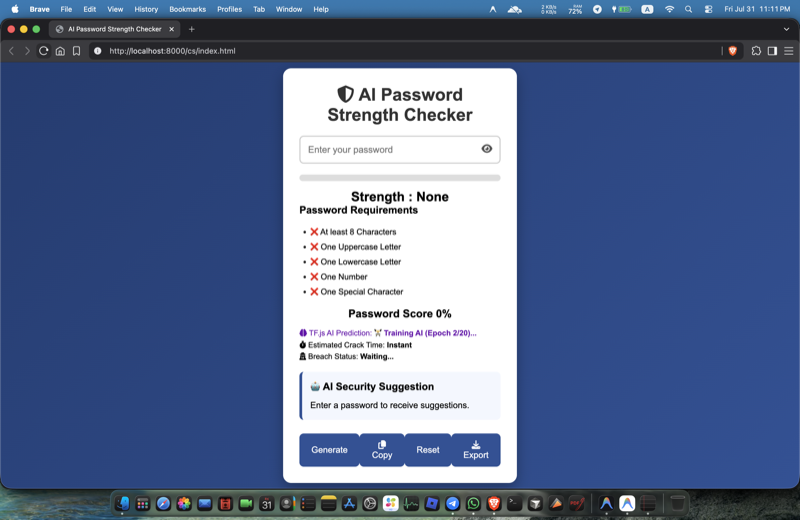
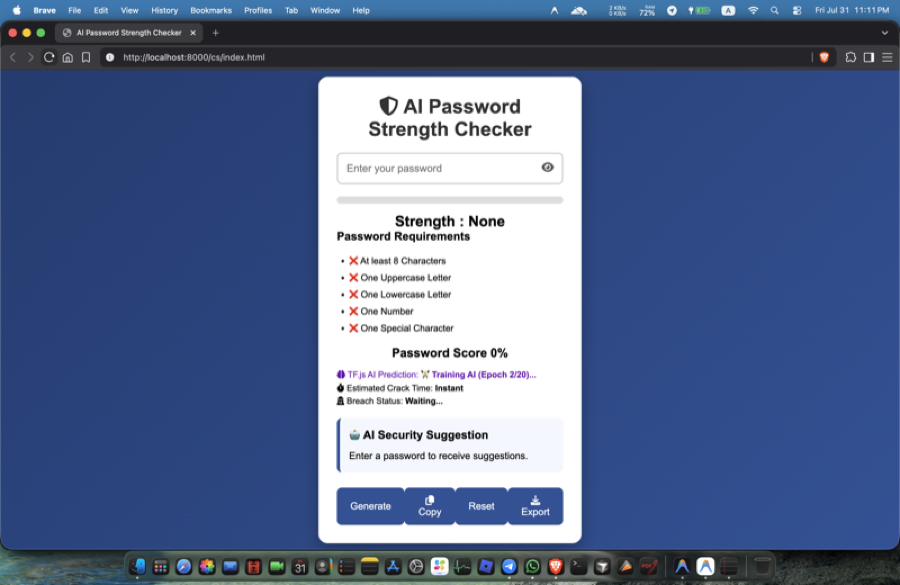
Compress screenshots and update README with all photos and full documentation

diff --git a/README.md b/README.md
@@ -1,8 +1,8 @@
 <div align="center">
   <h1>🛡 AI Password Strength Checker</h1>
-  <p><b>A fully client-side, privacy-first web application that combines Regex validation, Entropy Analysis, Real-World Breach Detection, and an in-browser Neural Network to evaluate password security.</b></p>
+  <p><b>A fully client-side, privacy-first web application that combines Regex Validation, Entropy Analysis, Real-World Breach Detection, and an in-browser Neural Network to evaluate password security.</b></p>
   <br/>
-  <img src="Screenshot 2026-07-31 at 11.11.13 PM.png" alt="App Overview" width="550"/>
+  <img src="Screenshot%202026-07-31%20at%2011.11.13%E2%80%AFPM.png" alt="App Overview" width="550"/>
 </div>
 
 ---
@@ -11,91 +11,95 @@
 
 | Weak Password | Fair Password |
 |:---:|:---:|
-| <img src="Screenshot 2026-07-31 at 11.11.14 PM.png" width="380"/> | <img src="Screenshot 2026-07-31 at 11.11.21 PM.png" width="380"/> |
+| <img src="Screenshot%202026-07-31%20at%2011.11.14%E2%80%AFPM.png" width="380"/> | <img src="Screenshot%202026-07-31%20at%2011.11.21%E2%80%AFPM.png" width="380"/> |
 
 | Strong Password | Very Strong Password |
 |:---:|:---:|
-| <img src="Screenshot 2026-07-31 at 11.11.42 PM.png" width="380"/> | <img src="Screenshot 2026-07-31 at 11.11.47 PM.png" width="380"/> |
+| <img src="Screenshot%202026-07-31%20at%2011.11.42%E2%80%AFPM.png" width="380"/> | <img src="Screenshot%202026-07-31%20at%2011.11.47%E2%80%AFPM.png" width="380"/> |
 
 | Breach Detection | Export Audit |
 |:---:|:---:|
-| <img src="Screenshot 2026-07-31 at 11.11.59 PM.png" width="380"/> | <img src="Screenshot 2026-07-31 at 11.12.25 PM.png" width="380"/> |
+| <img src="Screenshot%202026-07-31%20at%2011.11.59%E2%80%AFPM.png" width="380"/> | <img src="Screenshot%202026-07-31%20at%2011.12.25%E2%80%AFPM.png" width="380"/> |
 
-| AI Training (First Launch) | AI Ready (Cached) |
+| AI Training (First Launch) | AI Ready (Loaded from Cache) |
 |:---:|:---:|
-| <img src="Screenshot 2026-07-31 at 11.12.38 PM.png" width="380"/> | <img src="Screenshot 2026-07-31 at 11.12.41 PM.png" width="380"/> |
+| <img src="Screenshot%202026-07-31%20at%2011.12.38%E2%80%AFPM.png" width="380"/> | <img src="Screenshot%202026-07-31%20at%2011.12.41%E2%80%AFPM.png" width="380"/> |
 
 <div align="center">
-  <img src="Screenshot 2026-07-31 at 11.12.53 PM.png" alt="Full UI" width="550"/>
+  <img src="Screenshot%202026-07-31%20at%2011.12.53%E2%80%AFPM.png" alt="Full UI" width="550"/>
 </div>
 
 ---
 
 ## 🎯 Project Purpose
 
-This project was built as a **Computer Science Lab Final Project** to demonstrate the application of real-world cybersecurity concepts in a browser-based tool. The goal was to go beyond simple "uppercase/number" checking and implement a multi-layered, professionally-graded security analysis system.
+This project was built as a **Computer Science Lab Final Project** to demonstrate the application of real-world cybersecurity concepts in a browser-based tool. The goal was to go beyond simple "uppercase/number" checking and implement a multi-layered, professionally-graded security analysis system — without ever sending the user's password to any server.
 
 ---
 
 ## ✨ Features
 
-| Feature | Technology Used | What It Does |
+| Feature | Technology | What It Does |
 |---|---|---|
-| **Real-Time Checklist** | JavaScript Regex | Validates 5 rules (length, uppercase, lowercase, number, symbol) as you type |
-| **Dynamic Progress Bar** | CSS Transitions | Color changes from Red → Orange → Gold → Blue → Green |
+| **Real-Time Checklist** | JavaScript Regex | Validates 5 rules (length, uppercase, lowercase, number, symbol) instantly as you type |
+| **Dynamic Progress Bar** | CSS Transitions | Color changes Red → Orange → Gold → Blue → Green based on score |
 | **Entropy Analysis & Crack Time** | zxcvbn (Dropbox) | Calculates how long it would take a computer to brute-force the password |
 | **Breach Detection** | HaveIBeenPwned API + SHA-1 | Checks if the password appeared in known data breaches using k-Anonymity |
-| **In-Browser AI Prediction** | TensorFlow.js | A Neural Network trained on 1,000 labeled passwords predicts hack probability |
+| **In-Browser AI Prediction** | TensorFlow.js | A Neural Network trained on 1,000 labeled passwords predicts hack probability locally |
 | **Secure Password Generator** | Web Crypto API (CSPRNG) | Generates cryptographically unpredictable 14-character passwords |
 | **Copy to Clipboard** | Clipboard API | One-click copy of the generated password |
-| **Export Security Audit** | Blob API | Downloads a `.txt` file containing the full security report |
+| **Export Security Audit** | Blob API | Downloads a `.txt` report of the full security analysis |
 
 ---
 
 ## 🧠 Architecture: How It Works (A to Z)
 
 ### Layer 1 — Regex Validation (Foundation)
-When the user types, the JavaScript instantly checks the password against 5 Regular Expressions to drive the visual checklist. This is the fastest and most reliable method for checking required character types.
+When the user types, JavaScript instantly checks the password against 5 Regular Expressions to drive the visual checklist. This is the fastest and most reliable method for validating required character types.
 
 ### Layer 2 — Entropy Analysis via `zxcvbn`
-The project integrates `zxcvbn`, an open-source algorithm by Dropbox used in production systems. Unlike basic Regex, it understands **human psychology**:
-- It detects keyboard spatial patterns (e.g., `qwerty`, `asdfgh`)
-- It detects dictionary words, common names, and dates
-- It calculates **Information Entropy** (bits of randomness) and converts it to a real-world crack time (e.g., *"less than a second"* vs *"centuries"*)
+The project integrates `zxcvbn`, an open-source algorithm by Dropbox used in production systems. Unlike Regex, it understands **human psychology and behavior**:
+- Detects keyboard spatial patterns (e.g., `qwerty`, `asdfgh`)
+- Detects dictionary words, common names, dates, and l33tspeak
+- Calculates **Information Entropy** (bits of randomness) and converts it to a real-world crack time (e.g., *"less than a second"* vs *"centuries"*)
 
-### Layer 3 — Breach Detection (k-Anonymity Cryptography)
-This is the most security-critical feature and demonstrates a real-world cryptographic protocol:
-1. The password is hashed locally using **SHA-1** (via `window.crypto.subtle`) — the password itself never leaves the device.
+### Layer 3 — Breach Detection using k-Anonymity (Cryptography)
+This demonstrates a real-world cryptographic privacy protocol:
+1. The password is hashed locally using **SHA-1** via `window.crypto.subtle` — the password never leaves the device.
 2. Only the **first 5 characters** of the 40-character hash are sent to the HaveIBeenPwned API. This is called **k-Anonymity**.
-3. The API returns hundreds of hash suffixes that share those 5 characters. JavaScript then checks locally if the full hash matches, and reports how many times it was found in breaches.
+3. The API returns all matching hash suffixes. JavaScript then locally checks for a match and reports how many times the password was found in real data breaches.
 
-This means: **the full password is never transmitted anywhere.**
+**The full password is never transmitted over the internet.**
 
 ### Layer 4 — On-Device Neural Network (TensorFlow.js)
-This is the true AI component. The entire machine learning pipeline runs inside the user's browser:
+The true AI component. The entire Machine Learning pipeline runs inside the user's browser:
 
-1. **The Dataset:** `password_dataset.csv` contains 1,000 labeled samples — 500 bad passwords (common, predictable patterns) and 500 cryptographically generated secure passwords.
+1. **Dataset:** `password_dataset.csv` contains 1,000 labeled samples — 500 bad (common/predictable) and 500 cryptographically secure passwords.
 
-2. **The Neural Network Architecture:**
-   ```
-   Input → Embedding Layer (256 vocab, 16 dimensions)
-          → Flatten Layer
-          → Dense Layer (16 neurons, ReLU activation)
-          → Output Layer (1 neuron, Sigmoid activation)
-   ```
-   The **Sigmoid** output produces a score between 0.0 and 1.0, which we convert to a probability percentage.
+2. **Neural Network Architecture:**
+```
+Input (20 characters)
+  → Embedding Layer  (vocab size: 256, output dim: 16)
+  → Flatten Layer
+  → Dense Layer      (16 neurons, ReLU activation)
+  → Output Layer     (1 neuron, Sigmoid activation → probability 0.0 to 1.0)
+```
 
-3. **Model Persistence:** After training once (20 Epochs), the model is saved to the browser's `localStorage`. On every subsequent page load, the model is loaded from cache in under 1 second — **no retraining ever happens again**.
+3. **Model Caching (localStorage):** After training once (20 epochs, ~1-2 seconds on M2), the model is saved to the browser's `localStorage`. On every subsequent page load, it loads from cache in under 1 second — **no retraining ever happens again**.
 
-4. **Inference:** When a password is typed, it is tokenized (each character converted to its ASCII integer value) and padded to 20 characters. This is fed into the model which instantly returns its prediction.
+4. **Inference:** The typed password is tokenized (each character → ASCII integer, padded to 20 characters) and passed through the model, which returns the probability of being hacked.
+
+### Layer 5 — Cryptographically Secure Password Generator
+The "Generate Password" feature uses `window.crypto.getRandomValues()` — a **CSPRNG (Cryptographically Secure Pseudorandom Number Generator)** — instead of the insecure `Math.random()`. This produces passwords that are mathematically unpredictable.
 
 ---
 
 ## 🚀 How to Run Locally
 
 ### Requirements
-- Python 3 (for the local server)
+- Python 3 (for the local development server)
 - A modern browser (Chrome, Brave, Firefox, Safari)
+- Internet connection (for zxcvbn CDN, TensorFlow.js CDN, and HaveIBeenPwned API)
 
 ### Steps
 
@@ -108,16 +112,16 @@ cd ai-password-strength-checker
 
 # 3. Create and activate a Python virtual environment
 python3 -m venv venv
-source venv/bin/activate   # On Windows: venv\Scripts\activate
+source venv/bin/activate        # On Windows: venv\Scripts\activate
 
-# 4. Start the local web server from the project root
+# 4. Start the local web server from the project ROOT (not inside /cs)
 python3 -m http.server 8000
 
-# 5. Open your browser and visit:
-# http://localhost:8000/cs/index.html
+# 5. Open your browser and go to:
+http://localhost:8000/cs/index.html
 ```
 
-> ⚠ **Important:** You must use a local server (`http://localhost`) and not just open the file directly. This is required for the AI to fetch the `password_dataset.csv` file and for the HaveIBeenPwned API to work (CORS policy).
+> ⚠ **Important:** You MUST run the server from the project **root folder**, not from inside the `cs/` folder. This is required so TensorFlow.js can access the `password_dataset.csv` file one level up, and so that the HaveIBeenPwned API works (CORS policy).
 
 ---
 
@@ -127,43 +131,48 @@ python3 -m http.server 8000
 ai-password-strength-checker/
 │
 ├── cs/
-│   ├── index.html          # Main application UI
-│   ├── style.css           # All styling and animations
-│   └── script.js           # All logic (Regex, zxcvbn, HIBP, TensorFlow.js)
+│   ├── index.html              # Main application UI structure
+│   ├── style.css               # All styling, colors, animations
+│   └── script.js               # All logic: Regex, zxcvbn, HIBP API, TensorFlow.js
 │
-├── password_dataset.csv    # 1,000 labeled passwords for AI training
-├── train_model.py          # (Reference) Python version of the training script
-├── README.md               # This file
-└── .gitignore              # Ignores venv/ and .DS_Store
+├── password_dataset.csv        # 1,000 labeled passwords for AI training (500 bad, 500 good)
+├── train_model.py              # Reference Python training script (not required to run)
+├── README.md                   # This file
+└── .gitignore                  # Ignores venv/ and system files
 ```
 
 ---
 
 ## ⚠ Limitations
 
-This project is a **Proof of Concept (PoC)** for educational purposes. It has the following known limitations:
+This project is a **Proof of Concept (PoC)** for educational purposes. The following limitations are acknowledged:
 
 | Limitation | Explanation |
 |---|---|
-| **Small AI Dataset** | The Neural Network is trained on only 1,000 passwords. A production-grade model would require millions of samples to generalize properly. |
-| **Risk of Overfitting** | With only 1,000 samples, the AI may "memorize" specific passwords rather than truly learning patterns. |
-| **SHA-1 is Deprecated** | SHA-1 is used for HIBP breach detection because HIBP's API uses it. In other security contexts, SHA-1 is considered cryptographically broken and should not be used. |
-| **No Backend** | This is a fully frontend application. There is no server, no database, and no user authentication. |
-| **HIBP Requires Internet** | The breach detection feature requires an active internet connection. Offline, it will fail gracefully. |
-| **AI Prediction is Probabilistic** | The TF.js AI score is a probability estimate, not a guarantee. It reflects what the model learned from the dataset it was trained on. |
-| **localStorage is Browser-Specific** | The cached AI model is stored per browser. If you switch browsers, it will retrain once. |
+| **Small AI Dataset** | The Neural Network is trained on only 1,000 passwords. A production model would need millions of samples to generalize well and avoid bias. |
+| **Risk of Overfitting** | With only 1,000 samples, the AI may "memorize" the training data rather than truly learning general patterns. |
+| **SHA-1 is Cryptographically Deprecated** | SHA-1 is used here because the HaveIBeenPwned API requires it. In any other security context, SHA-1 is broken and should be replaced with SHA-256 or SHA-3. |
+| **No Backend or Database** | This is a fully frontend application. There is no server, database, or user authentication. |
+| **HIBP Requires Internet** | The breach detection feature requires an active internet connection to query the API. |
+| **AI Prediction is Probabilistic** | The TF.js score is a probability estimate based only on what was learned from the 1,000-sample training dataset. It is not a definitive security verdict. |
+| **localStorage is Browser-Specific** | The cached AI model is stored per browser/device. Opening in a new browser will trigger one-time retraining. |
+| **CDN Dependency** | zxcvbn and TensorFlow.js are loaded via CDN. The app requires internet access for these to function. |
 
 ---
 
 ## 🛠 Technologies Used
 
-- **HTML5 / CSS3 / JavaScript (ES6+)** — Core frontend stack
-- **TensorFlow.js** — In-browser Neural Network training and inference
-- **zxcvbn** — Open-source entropy analysis algorithm by Dropbox
-- **HaveIBeenPwned API** — Real-world breach detection database
-- **Web Crypto API** — SHA-1 hashing and CSPRNG for password generation
-- **FontAwesome** — UI Icons
-- **Python 3** — Local development web server
+| Technology | Purpose |
+|---|---|
+| HTML5 / CSS3 / JavaScript (ES6+) | Core frontend stack |
+| TensorFlow.js | In-browser Neural Network training and inference |
+| zxcvbn (Dropbox) | Open-source entropy analysis and crack time estimation |
+| HaveIBeenPwned API | Real-world global breach detection database |
+| Web Crypto API (`crypto.subtle`, `getRandomValues`) | SHA-1 hashing and CSPRNG password generation |
+| Clipboard API | Copy-to-clipboard functionality |
+| Blob API | Client-side file export (Security Audit download) |
+| FontAwesome | UI icons (CDN) |
+| Python 3 `http.server` | Local development web server |
 
 ---
 
